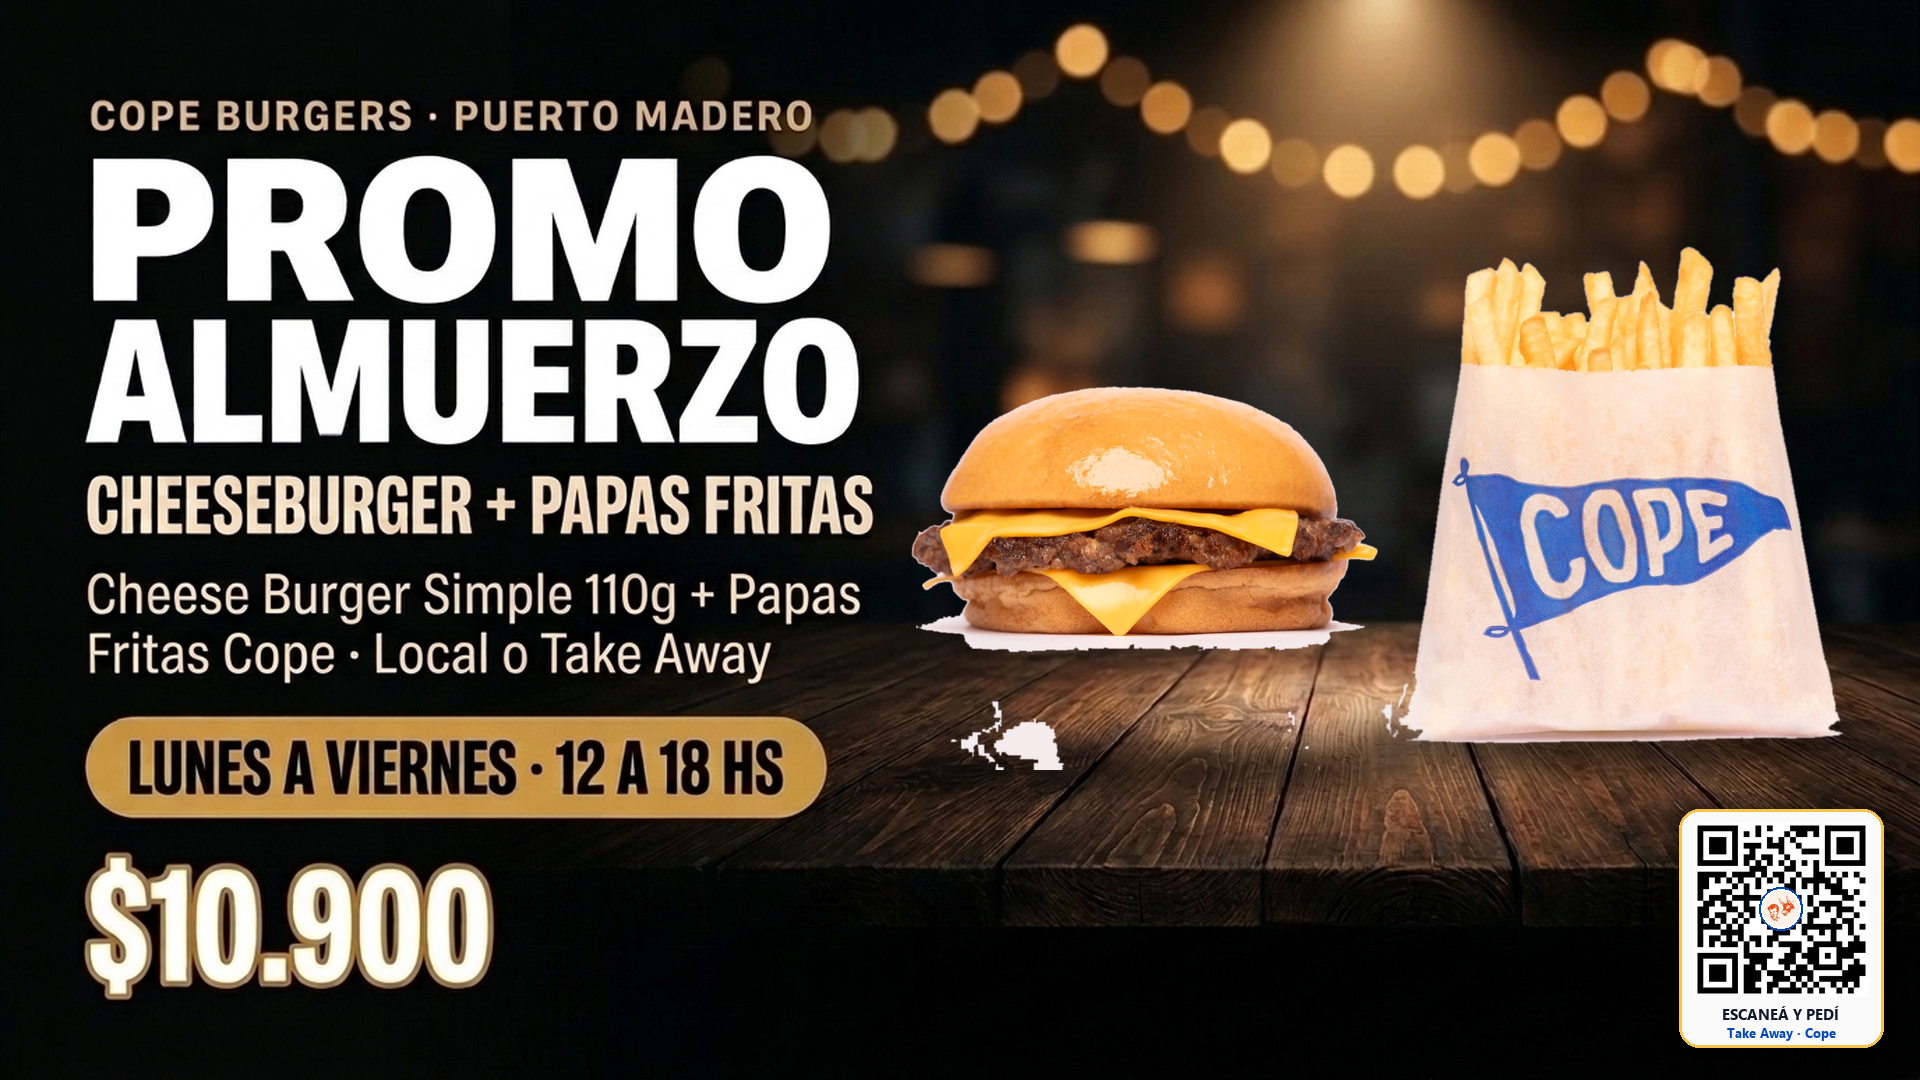
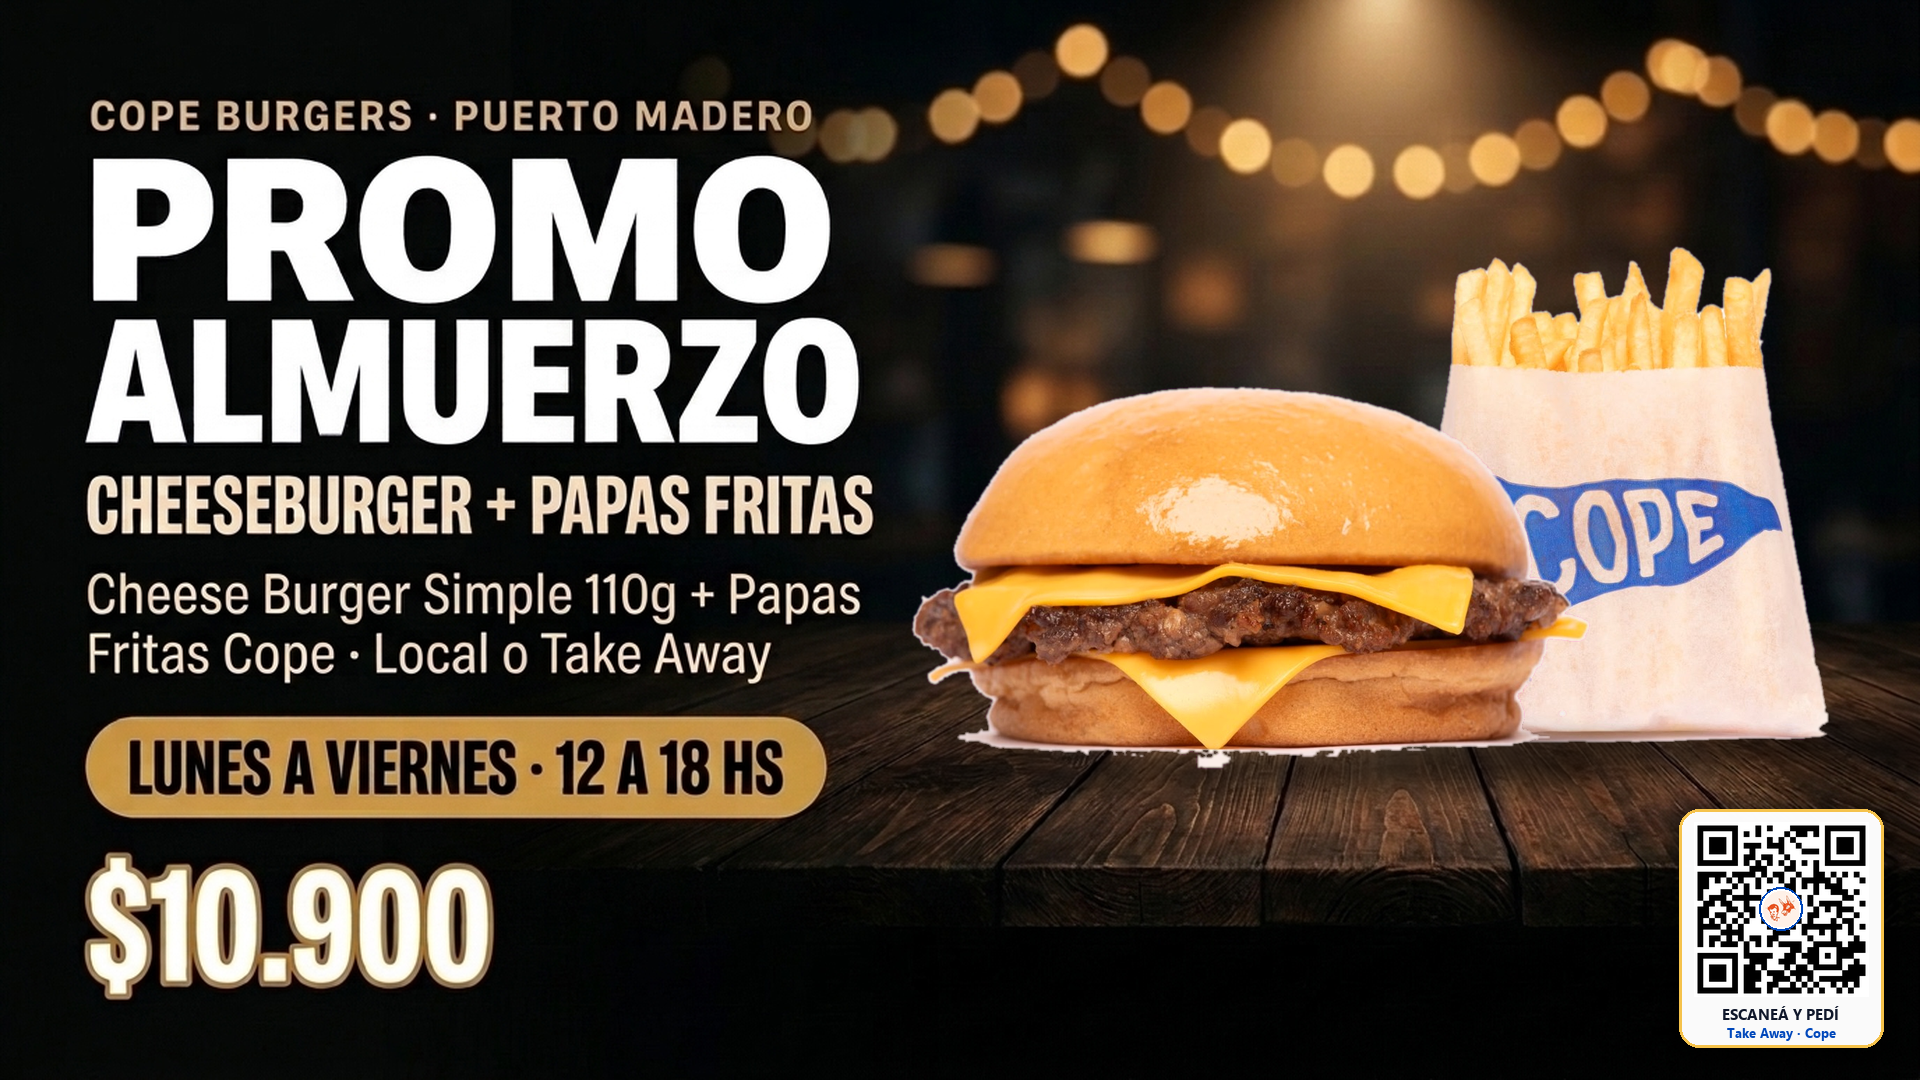
fix(promo): refine white-background cutout edges on real burger, fries, and beer foam

Changed region(s): [[0.4688, 0.2139, 0.9375, 0.7639], [0.9375, 0.5194, 1.0, 0.7028]]

diff --git a/generate_promo_displays.py b/generate_promo_displays.py
@@ -16,7 +16,7 @@ def get_font(path, size):
         return ImageFont.load_default()
 
 
-def remove_white_bg(img_path, thresh=26):
+def remove_white_bg(img_path, thresh=14, clean_bottom_shadow=False):
     """Elimina el fondo blanco de estudio desde las 4 esquinas usando floodfill nativo de Pillow."""
     img = Image.open(img_path).convert("RGBA")
     w, h = img.size
@@ -27,14 +27,21 @@ def remove_white_bg(img_path, thresh=26):
         except Exception:
             pass
 
-    # Extraer canal alfa donde sentinel quedó con alpha=0
+    if clean_bottom_shadow:
+        # Limpiar islas de sombra gris clara debajo del producto (parte inferior)
+        px = img.load()
+        y_start = int(h * 0.72)
+        for y in range(y_start, h):
+            for x in range(w):
+                r, g, b, a = px[x, y]
+                if a > 0 and r > 215 and g > 215 and b > 215 and (max(r, g, b) - min(r, g, b)) < 16:
+                    px[x, y] = (0, 0, 0, 0)
+
     r, g, b, a = img.split()
-    # Suavizar borde 1px para eliminar halo blanco
     a = a.filter(ImageFilter.MinFilter(3))
-    a = a.filter(ImageFilter.GaussianBlur(1.0))
+    a = a.filter(ImageFilter.GaussianBlur(1.2))
     clean = Image.merge("RGBA", (r, g, b, a))
 
-    # Recortar al bounding box del objeto real
     bbox = clean.getbbox()
     if bbox:
         clean = clean.crop(bbox)
@@ -113,8 +120,8 @@ def build_cheeseburger_poster():
     fries_path = os.path.join(UPLOADED_DIR, "media_1795710884630_1819e0b5.jpg")
 
     canvas = Image.open(bg_path).convert("RGBA").resize((1920, 1080), Image.Resampling.LANCZOS)
-    burger = remove_white_bg(burger_path, thresh=26)
-    fries = remove_white_bg(fries_path, thresh=24)
+    burger = remove_white_bg(burger_path, thresh=14, clean_bottom_shadow=True)
+    fries = remove_white_bg(fries_path, thresh=12, clean_bottom_shadow=True)
 
     # Posicionar Papas Cope reales atrás a la derecha y Cheeseburger real adelante
     canvas = paste_with_contact_shadow(canvas, fries, x=1380, y=245, target_h=500, shadow_strength=175)
@@ -136,8 +143,8 @@ def build_cervezas_poster():
     fries_path = os.path.join(UPLOADED_DIR, "media_1795710884630_1819e0b5.jpg")
 
     canvas = Image.open(bg_path).convert("RGBA").resize((1920, 1080), Image.Resampling.LANCZOS)
-    beers = remove_white_bg(beers_path, thresh=26)
-    fries = remove_white_bg(fries_path, thresh=24)
+    beers = remove_white_bg(beers_path, thresh=8, clean_bottom_shadow=True)
+    fries = remove_white_bg(fries_path, thresh=12, clean_bottom_shadow=True)
 
     # Posicionar las 2 cervezas reales y las Papas Cope reales sobre la barra de pizarra
     canvas = paste_with_contact_shadow(canvas, beers, x=940, y=190, target_h=515, shadow_strength=185)
